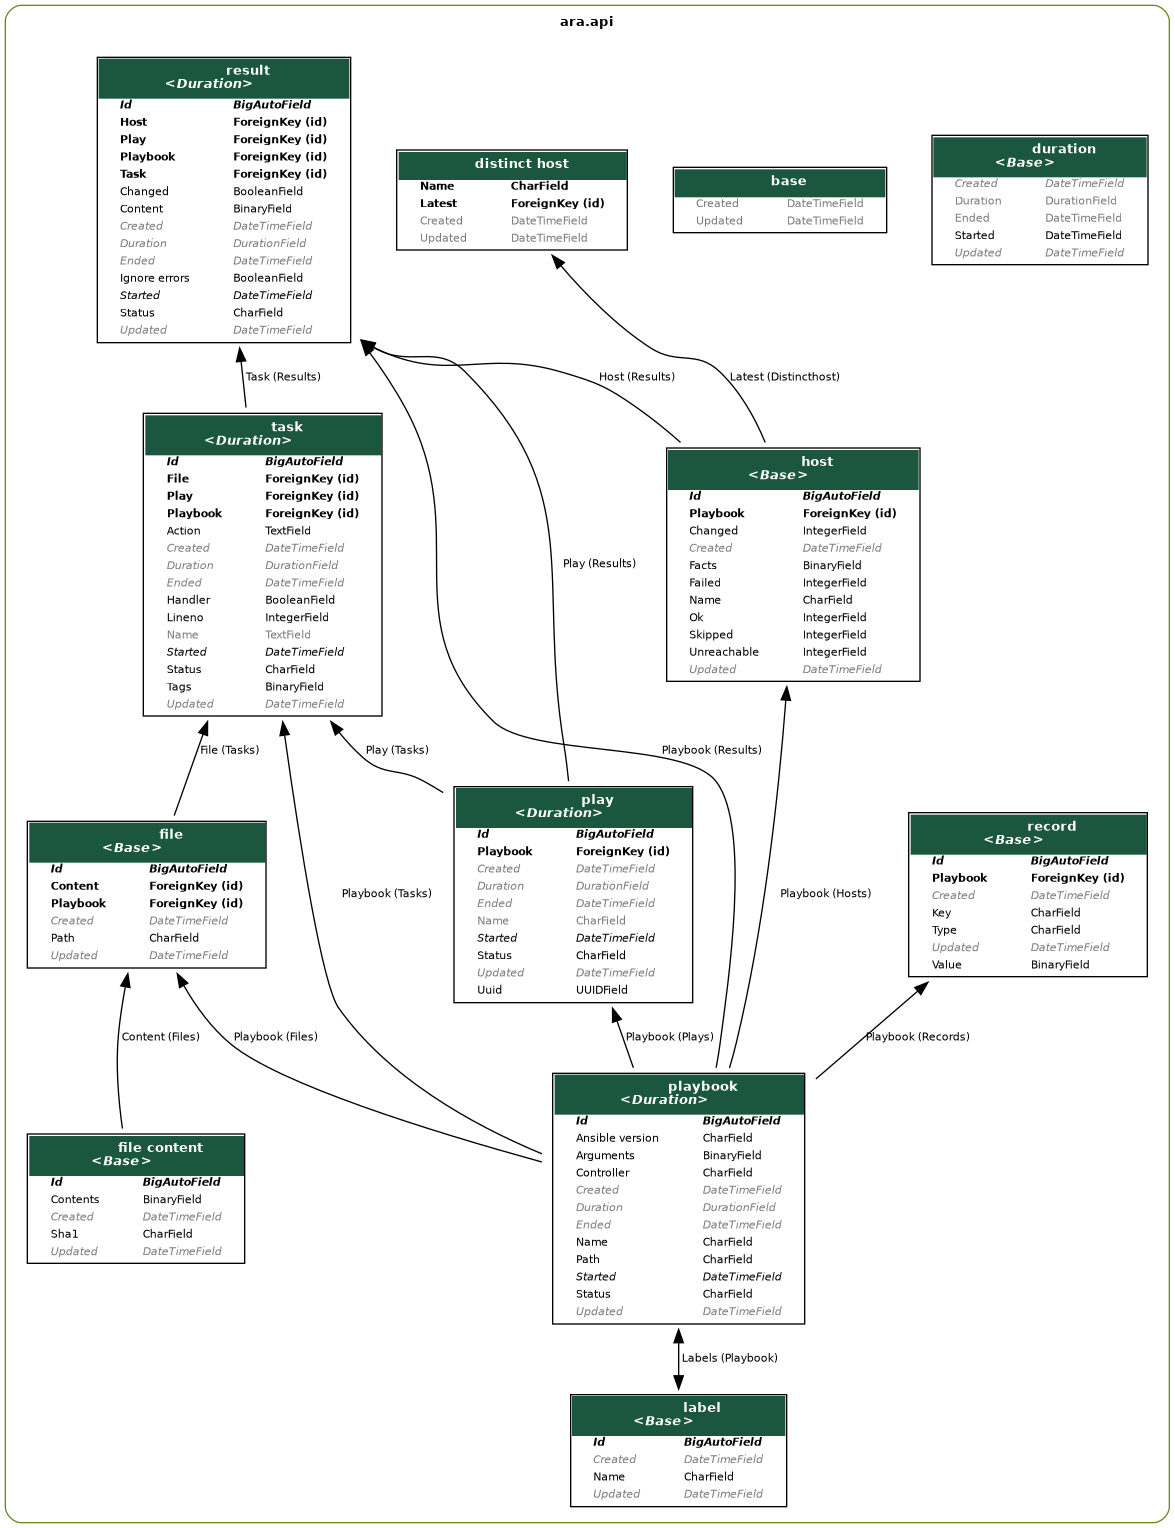
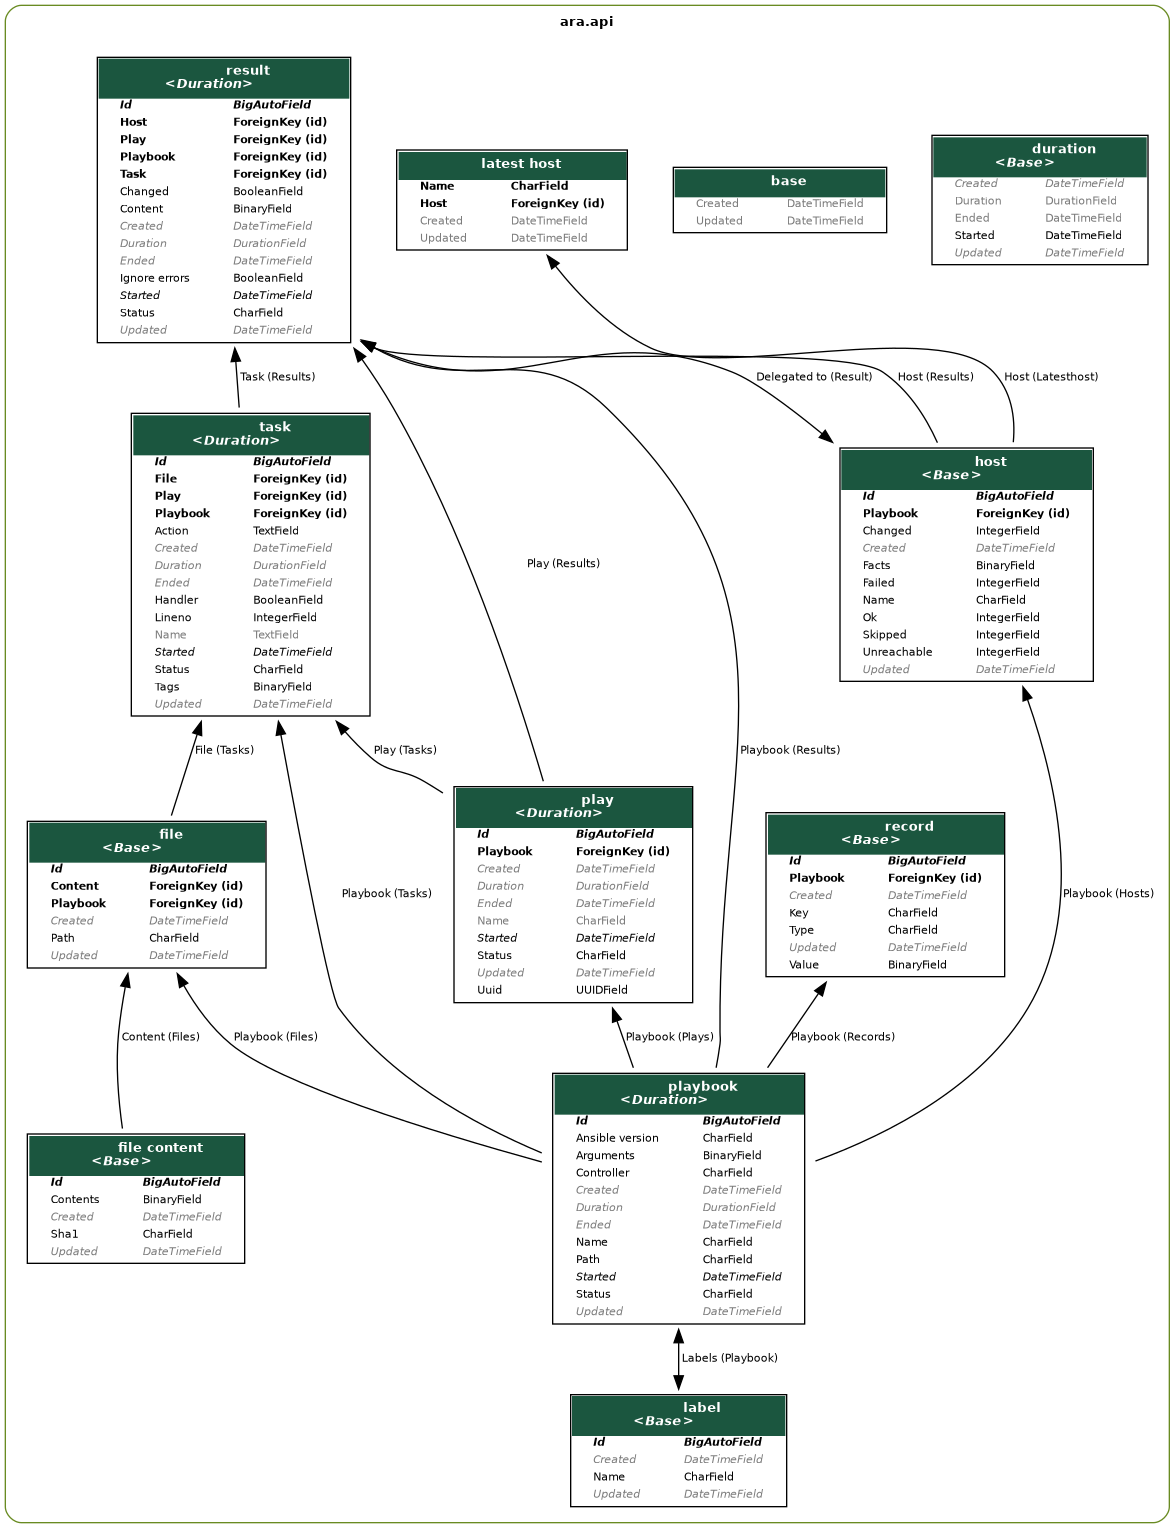
docs: Update and improve API relationships docs
Improve the wording, include the new LatestHost and fill in gaps
about some of the objects that were not explained.

diff --git a/doc/source/api-documentation.rst b/doc/source/api-documentation.rst
@@ -28,26 +28,29 @@ Alternatively, you may also find an up-to-date live demonstration of the API at
 Relationship between objects
 ----------------------------
 
-The relationship between objects in the API should be straightforward with an
-understanding of how Ansible playbooks are executed.
+Here's a high level overview of how data is generally organized::
 
-Generally speaking, the data is organized in the following fashion::
+    Label   Record (ara_record)              LatestHost
+        \   /                                 /
+      Playbook -> Play -> Task -> Result <- Host
+              \          /          |        |
+               \        /        Content   Facts
+                \ File /
+                   |
+                Content
 
-   labels
-     |
-  Playbook -> Play -> Task -> Result <- Host
-     |                  |       |        |
-    file               file   content   facts
-
-- Every object is associated to a playbook (except *labels* which are applied to playbooks)
-- In a playbook you have plays
-- In plays you have tasks
-- In tasks you have results
-- Results have a relationship to their parent task and the host the task ran on
-
-- Files are only associated to a playbook but tasks have a reference to the file
-  they were executed from
-- Records (provided by ``ara_record``) are only associated to a playbook
+- Every object except labels and LatestHost are associated to a parent playbook
+- Labels are applied on a playbook while a LatestHost references a specific Host
+- Records have a key, a value and a type provided by :ref:`ara_record <ara_record>`
+- In a playbook there are plays
+- In a play there are tasks
+- In a task there are results
+- Results have a relation to their parent task and the host the task ran on
+- Results have content with data returned by Ansible for a task on a host
+- Hosts have stats provided by Ansible and facts (if they have been set or gathered)
+- A LatestHost relation keeps track of the last playbook a host name was involved in
+- Playbooks and Tasks both have a path and a reference to a File
+- A file has content compressed and uniquely stored, hashed by sha1
 
 These relationships are also represented in the database model:
 
@@ -59,7 +62,7 @@ These relationships are also represented in the database model:
 Additional fields may only be available in the detailed views. For example:
 
 - Playbooks arguments with ``/api/v1/playbooks/<id>``
-- Hosts facts with ``/api/v1/hosts/<id>``
+- Hosts facts with ``/api/v1/hosts/<id>`` or ``/api/v1/latesthosts``
 - Results content with ``/api/v1/results/<id>``
 - Files content with ``/api/v1/files/<id>``
 

diff --git a/doc/source/ansible-plugins-and-use-cases.rst b/doc/source/ansible-plugins-and-use-cases.rst
@@ -218,6 +218,8 @@ With an argument, it can retrieve data from a specific playbook:
           debug:
             msg: "Playbook {{ query.playbook.status }} in {{ query.playbook.duration }}"
 
+.. _ara_record:
+
 ara_record: arbitrary key/values in playbook reports
 ----------------------------------------------------
 
